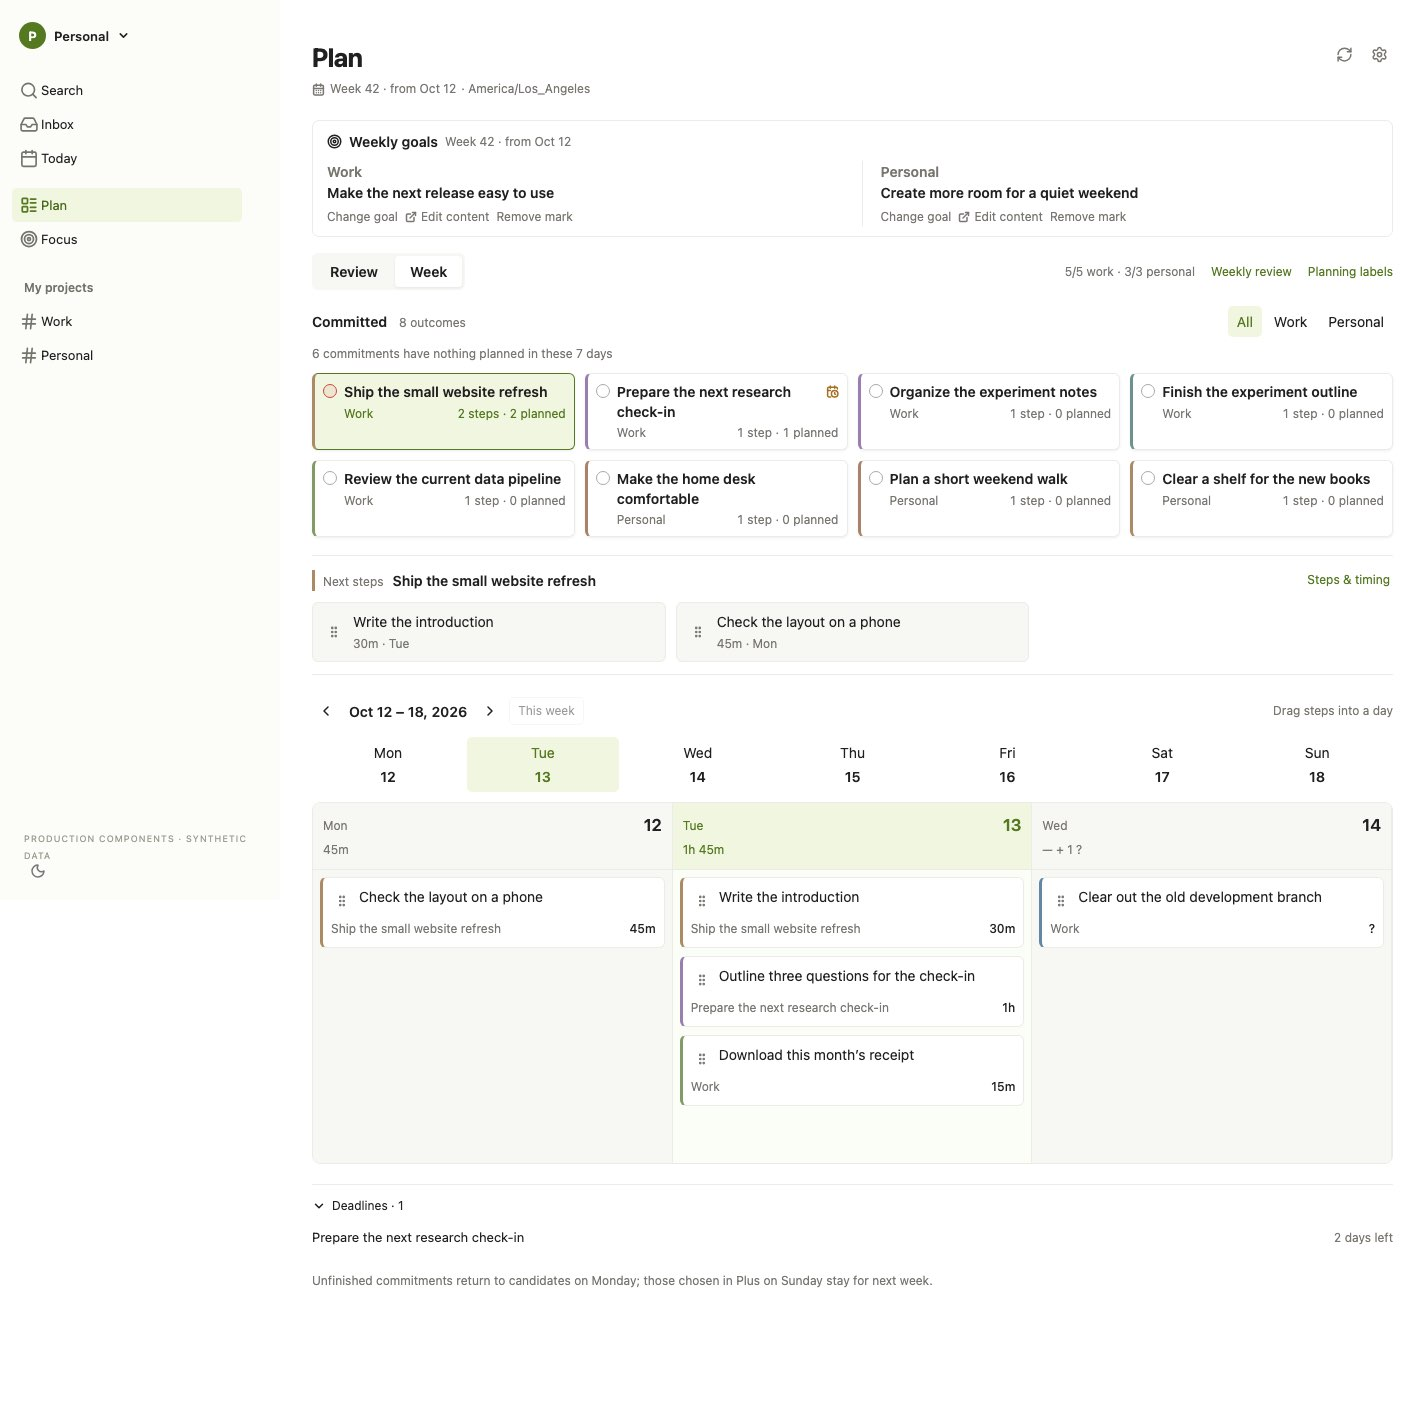
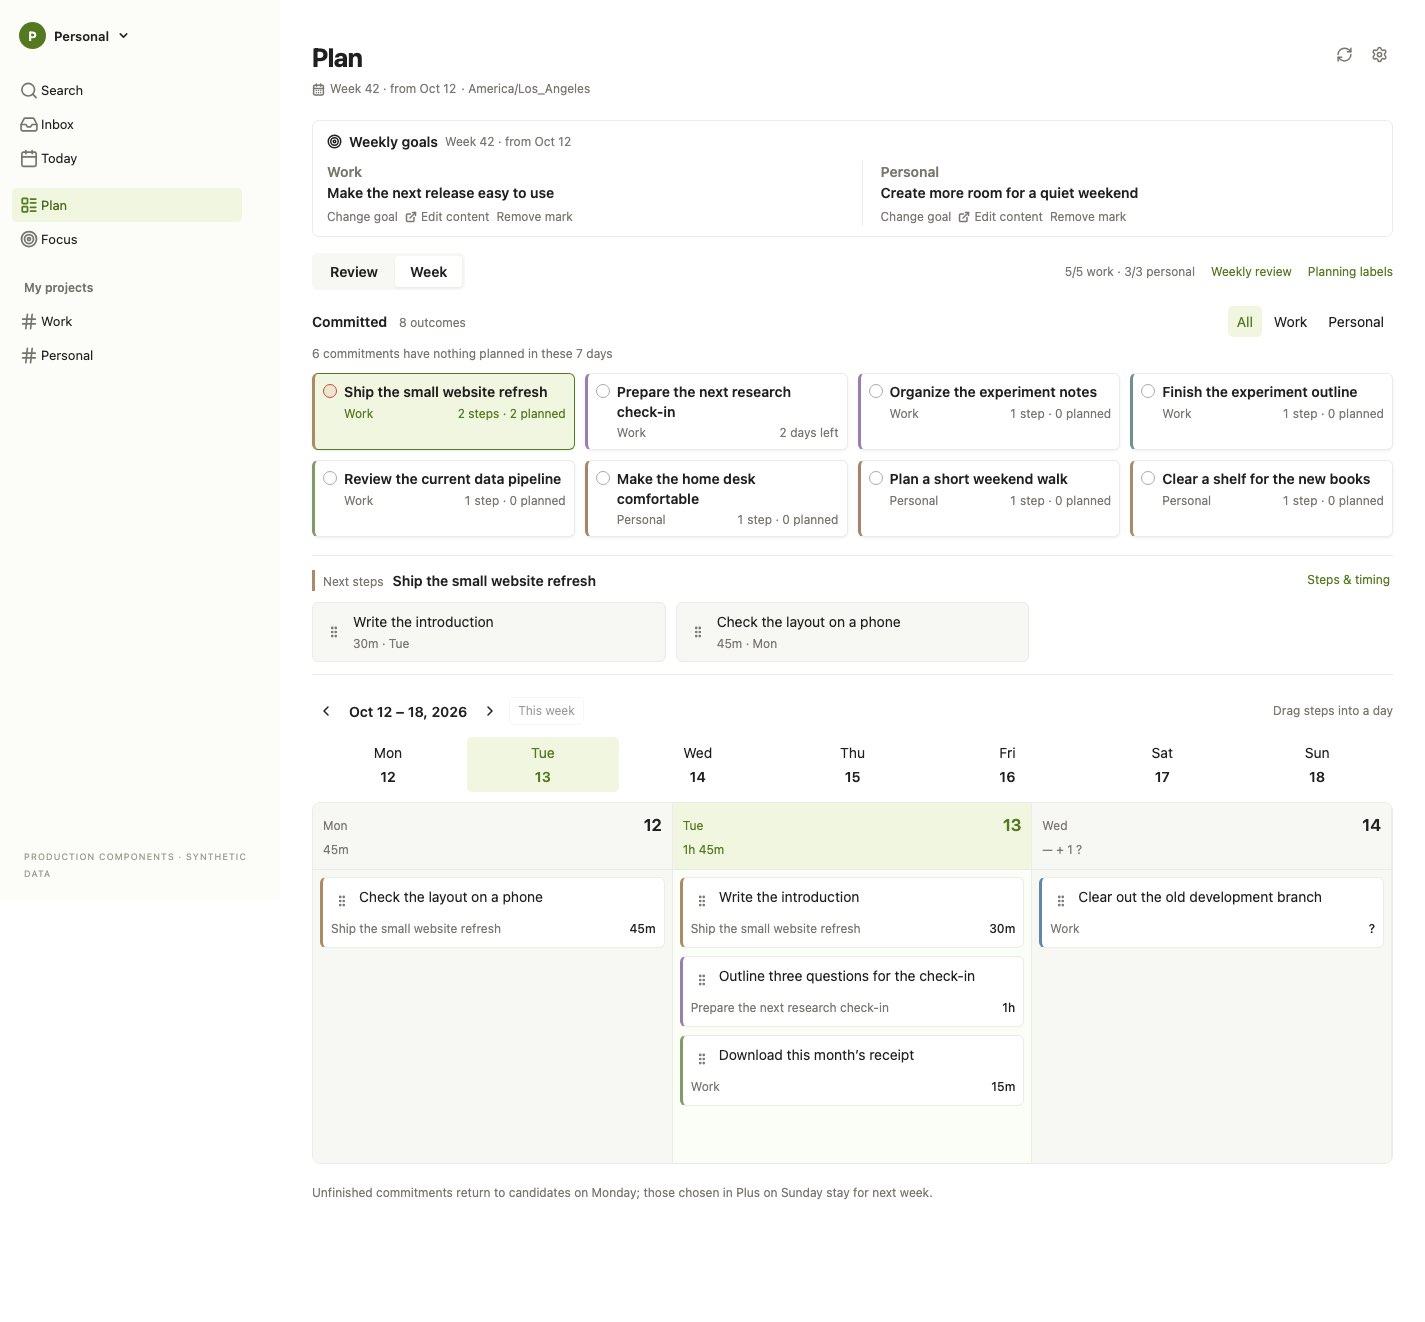
docs(todoist-plus): describe the Start now and Waiting lanes and retake captures
The interface and design documents describe the final layout: the lane
order and the one-lane rule, acknowledging by drag or by Start, the card
statuses, the weekly review's start-ahead line and the jumps to a lane.
The theme section and the pre-release console check drop dark mode, and
"pending" no longer shares a word with the Waiting lane. The four
design/production.html captures and the weekly review are retaken; the
built-extension capture of the two lanes (Kale light) replaces the
Deadlines list image. HANDOFF and the root record list the local checks.

diff --git a/HANDOFF.md b/HANDOFF.md
@@ -9,23 +9,23 @@ Its old waiting lists and release identities are historical, not instructions to
 
 ## Current work
 
-Todoist Plus deadlines, version 1 of the owner-approved design (start window, favourite filters,
-`SetTaskPlan.active`), is on local branch `claude/plus-deadlines`, based on `60309fac`; not pushed, no branch CI
-or release. "Deadlines · N" replaces "Needs a look" (Review above Waiting, Week below the calendar), Waiting
-rows show deadlines, Focus has one quiet line, task details say where a deadline stands and can mark it in
-progress (the literal `active` label, never created), and Todofy also hides the three waiting and in-progress
-deadline filters, by exact query, behind a consistency test. Row actions show on hover or keyboard focus only (owner
-decision); `--plus-danger` now reads Todoist's overdue colour, because the attention tint misses 4.5:1 as text.
-Other views remembers open or closed. Dependencies, native row marks and `@blocked` mirroring are not built.
-Review fixes are in: Deadlines stays open once a row is acted on, statuses end at the right edge, a pending
-card's mark waits for its drag. Local proto, Todofy (host, 559 runtime, gateway with CPU), owner UI, scripts and
-extension (161 unit, 24 MV3 Chromium) checks pass
-([evidence](docs/todoist-plus-verification.md#deadlines-version-1-local-checks-october-16)).
-Pending: push, full branch CI, owner review and one same-SHA release. Deploy Todofy first, since `active` needs
-it, then reload the extension straight away, before using Todoist: until the reload, the installed extension
-already hides the three filters but has no in-progress list, so `@active` tasks with a deadline show in no list
-for those minutes (the order is forced by `active`). Then refresh Todoist and confirm the account has an
-`active` label and the three filters disappear only from the extension's sidebar.
+Todoist Plus deadlines (start window, favourite filters, `SetTaskPlan.active`) are on local branch
+`claude/plus-deadlines`, based on `60309fac`; not pushed, no branch CI or release. The owner's final layout of
+October 16 replaced version 1's stacked lists: the Review board reads Start now | Waiting | Quarter | Month |
+Week | Committed, the first two hidden while empty, each task in one lane. Dragging a Start now card into a stage
+lane writes the stage and the literal `active` label (never created) in one write; a card's hover "Start" adds
+only `active`; a Waiting card dragged gets only the stage. Nothing is stacked under the board or the calendar;
+Focus has one quiet line, a deadline without a lead is one weekly review line, task details say where a deadline
+stands and can mark it in progress, and Todofy also hides the three waiting and in-progress deadline filters, by
+exact query, behind a consistency test against the board. Plus has no dark mode any more (owner decision); its
+colours follow Todoist's light themes. `--plus-danger` reads Todoist's overdue colour; Other views remembers
+open or closed. Dependencies and native row marks are not built. Local extension checks (163 unit, 26 MV3
+Chromium), Todofy host and Plus runtime cases and scripts pass
+([evidence](docs/todoist-plus-verification.md#start-now-and-waiting-lanes-local-checks-october-16)).
+Pending: owner review of the Kale screenshots, push, full branch CI and one same-SHA release. Deploy Todofy
+first, since `active` needs it, then reload the extension and refresh Todoist; the installed version's Waiting
+row covers the two waiting filters until then, and in-progress tasks need no list in either version. Confirm
+the account has an `active` label and the three filters disappear only from the extension's sidebar.
 
 Todoist Plus UI theme, safety and polish (owner-approved October 15: safety C1-C6, theming A1-A6, polish
 B1-B6) is on local branch `claude/plus-ui-theme`, based on `58908f64`; not pushed, no branch CI or release.
@@ -33,14 +33,15 @@ Colours follow Todoist's own theme tokens through CSS (the two names Plus read e
 Todoist is never left hidden without Plus attached, the task tools refuse a task the link does not name,
 Plan/Focus survive Todoist re-creating its layout, disabling the extension restores Todoist without a
 refresh, and Options shows a content-free "Todoist 页面检测" line. Test-only devDependency
-`@doist/product-libraries-tokens` 1.4.2 (MIT, not bundled); Vite's CSS target is Chrome 123. Local types,
-lint, build, 138 unit and 19 built-MV3 Chromium cases pass, including the same-day review fixes
+`@doist/product-libraries-tokens` 1.4.2 (MIT, not bundled); the deadlines branch drops its Chrome 123 CSS
+target with dark mode. Local types, lint, build, 138 unit and 19 built-MV3 Chromium cases pass, including the
+same-day review fixes
 ([evidence](docs/todoist-plus-verification.md#ui-theme-safety-and-polish-local-checks-october-15)).
 Pending: push, full branch CI, owner review; before the same-SHA release the owner runs the two
 content-free console lines under "发布前页面核对" in
-[todoist-plus/docs/verification.md](todoist-plus/docs/verification.md) (theme in Kale and Dark; a task
-with sub-tasks and one of its sub-tasks; the live modal shape, Dark `color-scheme` and shadows are
-unverified); after release, the six-step list there.
+[todoist-plus/docs/verification.md](todoist-plus/docs/verification.md) (theme in Kale; a task
+with sub-tasks and one of its sub-tasks; the live modal shape and shadows are unverified); after release,
+the six-step list there.
 
 Todoist Plus board performance (owner-approved plan, items 1-5 of the October 15 research) is implemented on
 local branch `claude/plus-perf-gtd`, based on `de8b93ac`; it is not pushed and has no branch CI or release.

diff --git a/docs/todoist-plus-verification.md b/docs/todoist-plus-verification.md
@@ -549,6 +549,8 @@ were read.
 
 ## Deadlines, version 1, local checks (October 16)
 
+The owner's final layout of the same day replaced the two stacked lists below: see [the next section](#start-now-and-waiting-lanes-local-checks-october-16). `SetTaskPlan.active`, the three replaced filters, the task-details sentence and button, Other views' remembered state and `--plus-danger` stay.
+
 The owner approved version 1 of the deadlines and dependencies design (its §7): the start window (§1), the
 favourite filters (§3) and `SetTaskPlan.active` (§5). Binding owner choices of 2026-10-16: the row actions of
 Deadlines and Waiting show only on hover or keyboard focus; no `@blocked` mirroring; restrained visuals, with
@@ -621,3 +623,38 @@ details sentence, which describes dates and the in-progress label only.
 Not verified: the live Todoist page and data (including that the owner's filters normalize to exactly these
 queries and that the account has an `active` label), real Todoist's overdue colour in the owner's theme, the
 installed extension, the core and gateway production dry-runs, branch CI and release.
+
+## Start now and Waiting lanes, local checks (October 16)
+
+The owner's final layout of 2026-10-16 (restrained, no dark mode): no new tab. The Review board reads Start now |
+Waiting | Quarter | Month | Week | Committed; Start now and Waiting use the same lane and card components and are
+hidden while empty. Each task is in exactly one lane: its own stage label first (its card then says it waits or
+should start), then `@waiting`/`@blocked`, then an open start window or a passed deadline without `@active`
+(also for a Week candidate by the 7-day date rule), then the date rule. Dragging a Start now card into a stage lane
+writes that stage and `active` in one confirmed SetTaskPlan, through the existing pending card and FIFO queue
+with rollback; a card's hover "Start" adds only `active`; a Waiting card dragged into a stage lane gets only the
+stage. Start now and Waiting take no drops. Nothing is stacked under the board or the Week calendar any more;
+Focus's quiet line and the weekly review's Waiting jump focus the lane on Plan's Review. A deadline without a
+lead is only a weekly review line, with the editor's start-ahead select per task. The dark-mode code is removed:
+`syncScheme` and the `data-theme="dark"` host rule, the `light-dark()` fallbacks (light values kept), the options
+page's dark color-scheme, the prototype's theme toggle and the Dark test cases. Same local branch
+`claude/plus-deadlines`; not pushed, no branch CI, no release. All data is synthetic; Todoist, FlowDay and
+Cloudflare accounts were not touched.
+
+The extension passes types, lint, Prettier, 163 unit/component/API cases and 26 built-MV3 Chromium cases. New or
+changed cases cover the lane rule and order, a client-side consistency grid (every combination of the API's
+fields is in at most one lane, and a waiting or must-start task in exactly one, saying so), the drag from Start
+now (one write with the stage and `active`, the predicted labels, rollback, stage only without an `active`
+label), the Waiting drag (stage only, label kept), drops on Start now or Waiting writing nothing, Start's single
+write with its focus and announcement, the weekly review's start-ahead line, the jumps from Focus and the weekly
+review, and in Chromium the six lanes in one row with identical cards, Start hidden at rest and shown on hover
+without moving the title or status, the drag into Committed shown at once and confirmed, and the narrow
+stacking. The content script is 383,915 bytes (121,691 with `gzip -9`), its CSS 32,763; version 1 was 385,225
+(121,861) and 33,073. Todofy's consistency case now requires every task a replaced deadline or waiting query
+selects to be on the Review board (must start or waiting) or in progress, and every task of the missing-lead
+query to be in the weekly review's line; the query set and backend behaviour are unchanged (one comment).
+Screenshots of the built extension on the synthetic page, in Kale light only, were reviewed locally: the board
+with both lanes, a Start now card dragged into Committed and pending after the drop, a hovered card showing
+Start, and the weekly review's start-ahead line; the interface document's images were retaken.
+
+Not verified: the live Todoist page and data, the installed extension, branch CI and release.

diff --git a/todoist-plus/README.md b/todoist-plus/README.md
@@ -2,18 +2,18 @@
 
 把周计划和 FlowDay 放进 Todoist 的 Chrome 扩展。支持普通网页与同一 Chrome profile 安装的 PWA；Todoist 原生桌面、手机应用不能安装它。
 
-- **Plan / Review**：紧凑看板显示本季度、本月、本周待选和本周承诺，拖动事项调整规划范围。每列对应一个现有 Todoist 标签，可在“计划标签”中选择。
+- **Plan / Review**：紧凑看板从左到右显示该开始、等待中（都只在有卡片时出现）和本季度、本月、本周待选、本周承诺，拖动事项调整规划范围。启动窗口已开或已过截止的任务出现在“该开始”，拖入某列或点卡片上的“开始”即标为进行中。每个规划列对应一个现有 Todoist 标签，可在“计划标签”中选择。
 - **Plan / Week**：先看本周承诺总览，再展开某个事项的小步骤，拖到具体日期或调整顺序；支持上一周、下一周和回本周。窄窗口显示三日或单日。
 - **本周目标**：工作和生活的整体目标单独显示，用现有任务的 Bets 标记；更换目标不会调整任务的承诺状态或日期。
 - **步骤与时间**：批量添加小步骤、修改已有任务估时，编辑真实 Deadline 和提前开始窗口。
 - **Focus**：执行今天已安排的步骤，查看父任务、估时并计时或完成；“调整计划”返回 Plan。暂停或结束计时不会完成任务。
-- **等待中**：Review 下方折叠显示 `@waiting`／`@blocked` 任务，最久未变动的在前；可添加跟进步骤、加入今天或在 Todoist 打开。不移除标签，也不联系任何人。
-- **周回顾**：五行清单（邮件待理清、等待中、承诺未安排、将来／也许、下周承诺）带数量和跳转，按 ISO 周在本浏览器勾选；Todofy 的周日回顾任务链接到它，“完成回顾”只在点击时完成该任务。
+- **等待中**：Review 的第二列显示 `@waiting`／`@blocked` 任务，最久未变动的在前，有截止日期时一并显示；点击打开任务详情。不移除标签，也不联系任何人。
+- **周回顾**：五行清单（邮件待理清、等待中、承诺未安排、将来／也许、下周承诺）带数量和跳转，有截止日期没设提前量时多一行，可直接选择提前量；按 ISO 周在本浏览器勾选；Todofy 的周日回顾任务链接到它，“完成回顾”只在点击时完成该任务。
 
 拖到某天只改 FlowDay 队列，保留 Todoist 的计划日期和 Deadline。父任务数量按承诺计算，子任务可以单独安排；正在计时的步骤先结束计时再移动。
 浏览其他周不改变当前承诺或本周目标。周一会把未完成的承诺放回待选；周日在 Plus 中选的承诺和本周目标留到下周，同一任务的两个标记一起保留。每个承诺与其步骤使用同一色标；卡片先显示标题，下面保留简短的所属事项。
 
-现有标签和筛选器保留。替代的规划项在本地隐藏，其他筛选器和标签收藏收进“Other views”；项目收藏保持可见。颜色跟随 Todoist 当前主题（含深色）。停用或重新加载扩展后，回到 Todoist 标签页即恢复原界面，无需刷新；Plus 显示出错时只留一行“返回 Todoist / 重新加载”。FlowDay 的本地任务和杂项时间仍保留。
+现有标签和筛选器保留。替代的规划项在本地隐藏，其他筛选器和标签收藏收进“Other views”；项目收藏保持可见。颜色跟随 Todoist 当前的浅色主题；Plus 没有深色模式。停用或重新加载扩展后，回到 Todoist 标签页即恢复原界面，无需刷新；Plus 显示出错时只留一行“返回 Todoist / 重新加载”。FlowDay 的本地任务和杂项时间仍保留。
 
 ## 安装和连接
 
